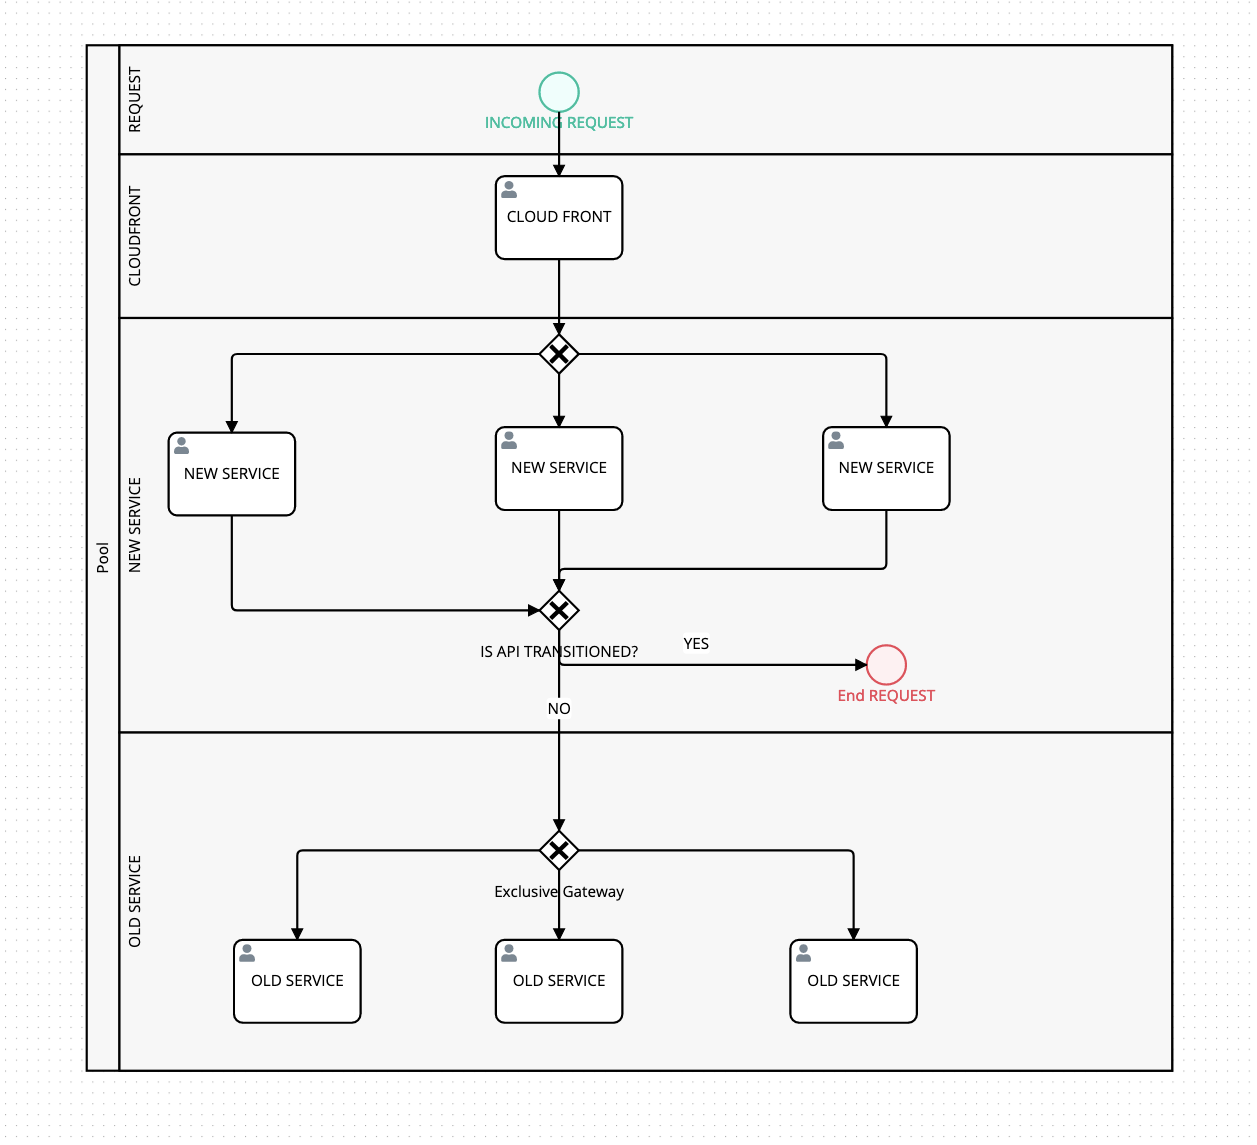
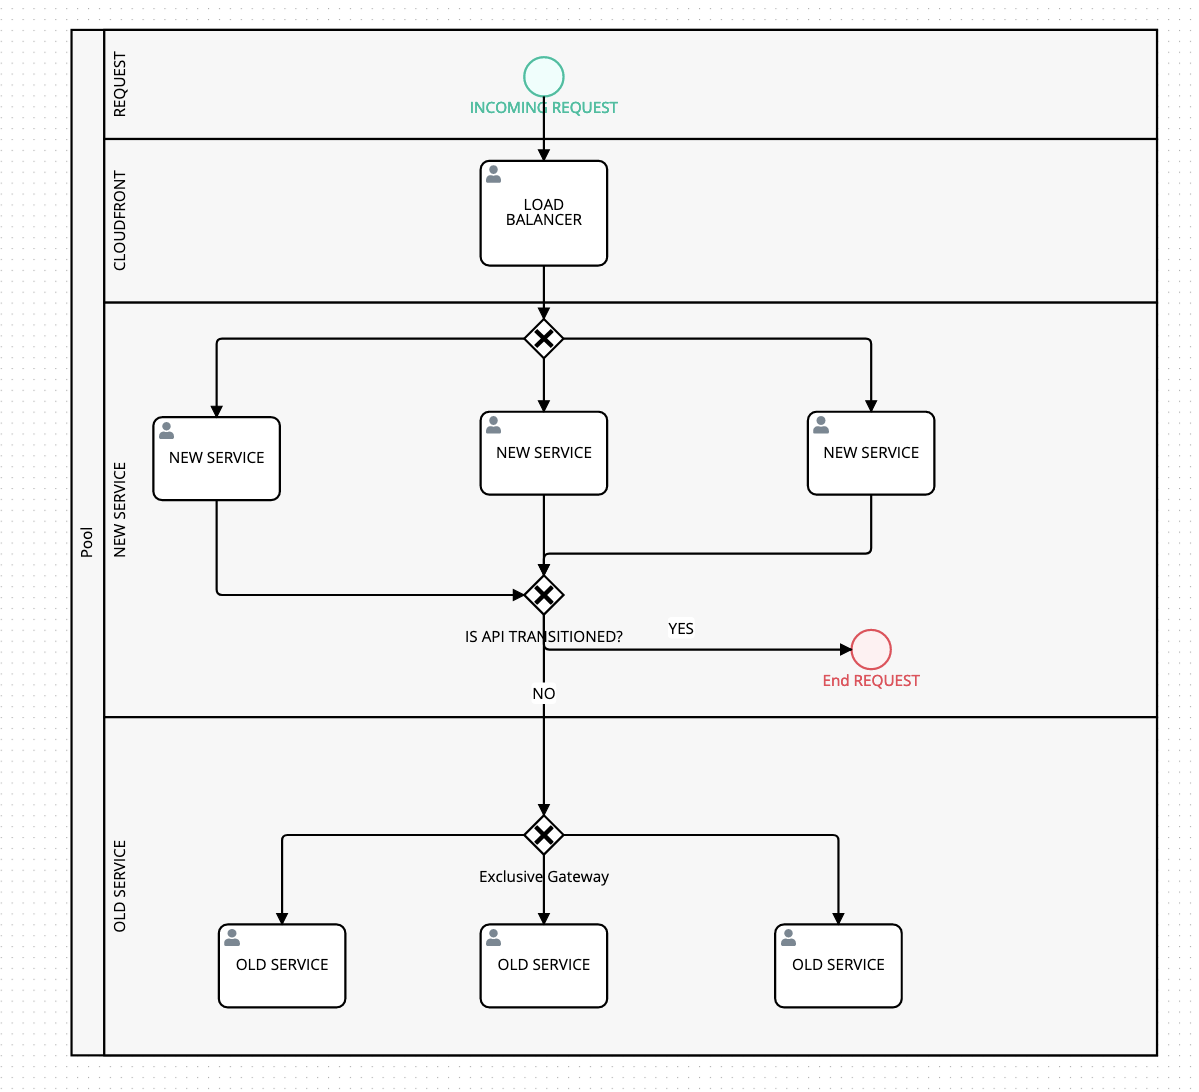
include a screenshot of the architecture design

Changed region(s): [[0.0309, 0.0, 0.9875, 0.9963], [0.1852, 0.7473, 0.3086, 0.9341], [0.648, 0.3425, 0.7715, 0.4982]]

diff --git a/README.md b/README.md
@@ -1,2 +1,5 @@
 CLoud Front
 
+<p align="center">
+<a href="https://github.com/fredpen/cloud-africa/blob/main/resources/ARCHITECTURE.png"></a>
+</p>
